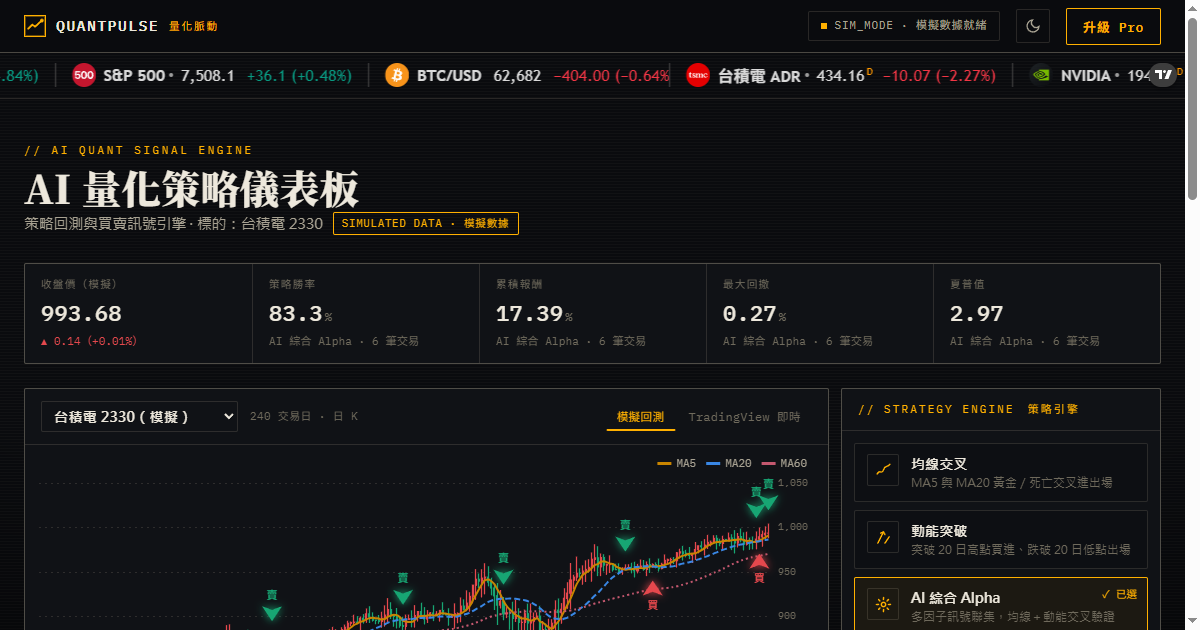
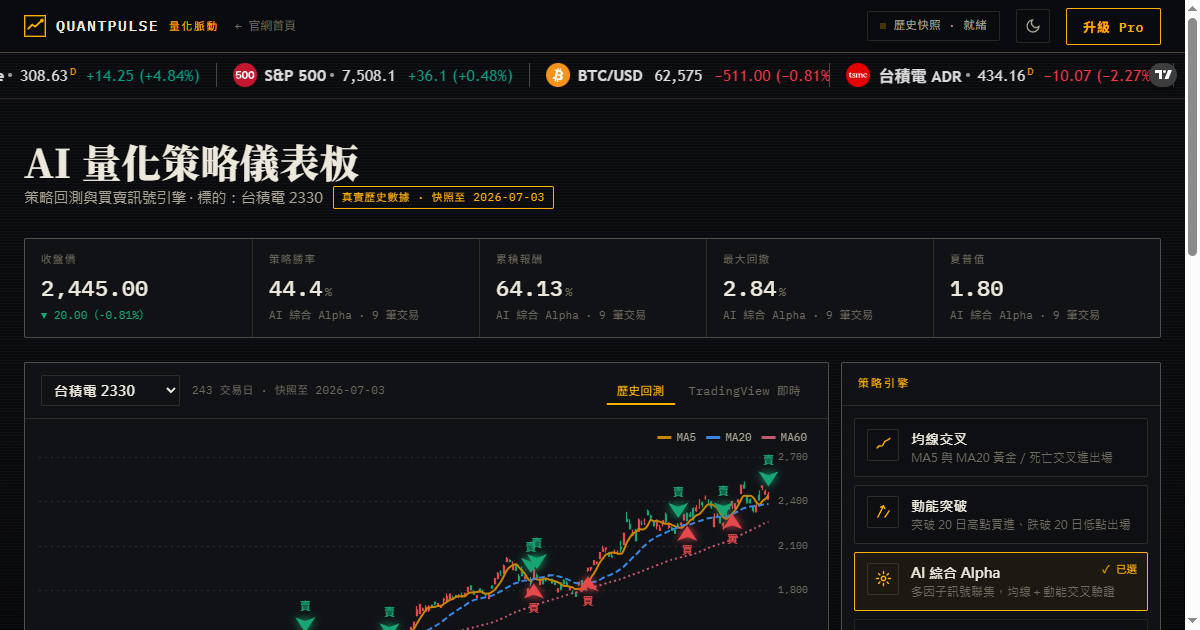
feat: 真實歷史數據——Yahoo Finance 快照管線取代模擬行情（2330 現價 2445／TAIEX 46780）

diff --git a/app.html b/app.html
@@ -3,8 +3,8 @@
 <head>
 <meta charset="UTF-8">
 <meta name="viewport" content="width=device-width, initial-scale=1.0">
-<title>QuantPulse 量化脈動｜AI 量化策略儀表板（模擬展示）</title>
-<meta name="description" content="AI 量化策略儀表板前端技術展示——K 線圖、AI 買賣訊號、模擬訂閱金流。所有數據皆為模擬，不構成投資建議。">
+<title>QuantPulse 量化脈動｜AI 量化策略儀表板（技術展示）</title>
+<meta name="description" content="AI 量化策略儀表板技術展示——真實歷史 K 線快照、AI 買賣訊號回測、模擬訂閱金流。不構成投資建議。">
 <meta property="og:type" content="website">
 <meta property="og:url" content="https://kjyangdev-hue.github.io/quantpulse-demo/">
 <meta property="og:title" content="QuantPulse 量化脈動｜AI 量化策略儀表板">
@@ -327,7 +327,7 @@ footer{margin-top:var(--space-7);border-top:1px solid var(--border-strong);paddi
     </span>
     <a class="nav-home" href="./">← 官網首頁</a>
     <span class="nav-spacer"></span>
-    <span class="market-badge"><span class="dot"></span>模擬數據 · 就緒</span>
+    <span class="market-badge"><span class="dot"></span><span id="market-badge-text">數據載入中…</span></span>
     <button class="icon-btn" id="btn-theme" title="切換深淺色主題" aria-label="切換深淺色主題">
       <svg width="16" height="16" viewBox="0 0 24 24" fill="none" stroke="currentColor" stroke-width="2" stroke-linecap="round"><path d="M21 12.8A9 9 0 1 1 11.2 3 7 7 0 0 0 21 12.8z"/></svg>
     </button>
@@ -347,14 +347,14 @@ footer{margin-top:var(--space-7);border-top:1px solid var(--border-strong);paddi
     <h1>AI 量化策略儀表板</h1>
     <p class="sub">
       策略回測與買賣訊號引擎 · 標的：台積電 2330
-      <span class="sim-badge">模擬數據</span>
+      <span class="sim-badge" id="data-badge">數據載入中…</span>
     </p>
   </header>
 
   <!-- 統計卡列 -->
   <section class="stats" aria-label="關鍵指標">
     <div class="stat">
-      <div class="label">收盤價（模擬）</div>
+      <div class="label">收盤價</div>
       <div class="value" id="stat-price">--</div>
       <div class="delta" id="stat-price-delta">--</div>
     </div>
@@ -385,13 +385,13 @@ footer{margin-top:var(--space-7);border-top:1px solid var(--border-strong);paddi
     <div class="card chart-card">
       <div class="card-head">
         <select class="symbol-select" id="symbol-select" aria-label="切換標的">
-          <option value="2330">台積電 2330（模擬）</option>
-          <option value="taiex">加權指數 TAIEX（模擬）</option>
+          <option value="2330">台積電 2330</option>
+          <option value="taiex">加權指數 TAIEX</option>
         </select>
-        <span class="card-note">240 交易日 · 日 K</span>
+        <span class="card-note" id="data-note">數據載入中…</span>
         <span class="nav-spacer"></span>
         <div class="chart-tabs" role="tablist" aria-label="圖表切換">
-          <button class="chart-tab selected" data-tab="sim" role="tab" aria-selected="true">模擬回測</button>
+          <button class="chart-tab selected" data-tab="sim" role="tab" aria-selected="true">歷史回測</button>
           <button class="chart-tab" data-tab="tv" role="tab" aria-selected="false">TradingView 即時</button>
         </div>
       </div>
@@ -464,7 +464,7 @@ footer{margin-top:var(--space-7);border-top:1px solid var(--border-strong);paddi
           </table>
         </div>
         <div class="empty-state" id="signal-empty">
-          尚未執行分析——點擊「啟動 AI 策略分析」，AI 將掃描 240 個交易日的模擬行情
+          尚未執行分析——點擊「啟動 AI 策略分析」，AI 將掃描近一年的歷史行情
         </div>
       </div>
       <div class="pane" id="pane-trades" hidden>
@@ -509,9 +509,9 @@ footer{margin-top:var(--space-7);border-top:1px solid var(--border-strong);paddi
 <footer>
   <div class="wrap">
     <p class="disclaimer">
-      <b>模擬展示聲明：</b>本頁面為前端技術展示作品。K 線行情、AI 訊號與回測績效皆由固定種子（2330：seed 69／TAIEX：seed 99）演算法產生之<b>模擬數據</b>；
-      「Pro 訂閱」為模擬結帳流程，<b>不會進行任何實際交易或請款</b>。頂部跑馬燈、「TradingView 即時」圖表分頁與側欄技術面儀表為
-      TradingView 第三方元件（<b>真實市場數據</b>，非模擬）。本頁所有內容不構成投資建議。
+      <b>資料與展示聲明：</b>本頁面為前端技術展示作品。K 線行情為 <b>Yahoo Finance 歷史數據快照</b>（截至日期見圖表卡標示，非即時報價；
+      資料載入失敗時以固定種子模擬數據備援並明確標示）。AI 訊號與回測績效為演算法示範，<b>不構成投資建議</b>；
+      「Pro 訂閱」為模擬結帳流程，<b>不會進行任何實際交易或請款</b>。跑馬燈、「TradingView 即時」分頁與技術面儀表為 TradingView 第三方即時元件。
     </p>
     <p class="foot-meta">QUANTPULSE DEMO · BUILT WITH AI-ASSISTED WORKFLOW · ECHARTS 5 / VANILLA JS · 2026</p>
   </div>
@@ -521,17 +521,48 @@ footer{margin-top:var(--space-7);border-top:1px solid var(--border-strong);paddi
 <script src="https://cdn.jsdelivr.net/npm/echarts@5.5.0/dist/echarts.min.js"></script>
 <script>
 'use strict';
-/* ============ 資料初始化（可切換標的） ============ */
-const DAYS = 240;
+/* ============ 資料初始化：真實歷史快照（Yahoo Finance），離線以模擬備援 ============ */
 const SYMBOLS = {
-  '2330': { label: '台積電 2330（模擬）', seed: 69, start: 780 },
-  'taiex': { label: '加權指數 TAIEX（模擬）', seed: 99, start: 20000 },
+  '2330': { label: '台積電 2330', file: 'data/2330.json', fallbackSeed: 69, fallbackStart: 1920 },
+  'taiex': { label: '加權指數 TAIEX', file: 'data/taiex.json', fallbackSeed: 99, fallbackStart: 33000 },
 };
-let candles = QP.generateCandles(SYMBOLS['2330'].seed, DAYS, SYMBOLS['2330'].start);
+let candles = null;
+let dataMeta = null;
+const DATA_CACHE = {};
+
+async function loadSymbolData(key) {
+  if (DATA_CACHE[key]) return DATA_CACHE[key];
+  const cfg = SYMBOLS[key];
+  try {
+    const res = await fetch(cfg.file);
+    if (!res.ok) throw new Error(`HTTP ${res.status}`);
+    const json = await res.json();
+    DATA_CACHE[key] = { candles: json.candles, asOf: json.asOf, simulated: false };
+  } catch (err) {
+    DATA_CACHE[key] = { candles: QP.generateCandles(cfg.fallbackSeed, 240, cfg.fallbackStart), asOf: null, simulated: true };
+  }
+  return DATA_CACHE[key];
+}
+
+/* 套用已載入的標的資料並更新所有資料標示 */
+function applySymbol(key) {
+  const d = DATA_CACHE[key];
+  candles = d.candles;
+  dataMeta = d;
+  renderChart();
+  updatePriceStat();
+  document.getElementById('data-note').textContent = d.simulated
+    ? `${candles.length} 交易日 · 模擬備援數據`
+    : `${candles.length} 交易日 · 快照至 ${d.asOf}`;
+  document.getElementById('market-badge-text').textContent = d.simulated ? '模擬備援 · 就緒' : '歷史快照 · 就緒';
+  document.getElementById('data-badge').textContent = d.simulated ? '模擬備援數據' : `真實歷史數據 · 快照至 ${d.asOf}`;
+  document.getElementById('chart-main').setAttribute('aria-label', `${SYMBOLS[key].label} 日 K 線圖，含 MA5、MA20、MA60 均線與成交量`);
+}
 const fmt = (n) => n.toLocaleString('zh-Hant-TW', { minimumFractionDigits: 2, maximumFractionDigits: 2 });
 
 /* 收盤價統計卡 */
 function updatePriceStat() {
+  if (!candles) return;
   const last = candles[candles.length - 1], prev = candles[candles.length - 2];
   const chg = last.close - prev.close, pct = (chg / prev.close) * 100;
   document.getElementById('stat-price').textContent = fmt(last.close);
@@ -540,7 +571,6 @@ function updatePriceStat() {
   d.classList.remove('up', 'down');
   d.classList.add(chg >= 0 ? 'up' : 'down');
 }
-updatePriceStat();
 
 /* ============ 主題 ============ */
 const root = document.documentElement;
@@ -631,7 +661,7 @@ function baseOption() {
       {
         scale: true, gridIndex: 1, position: 'right', splitNumber: 2,
         axisLine: { show: false }, axisTick: { show: false },
-        axisLabel: { color: t.ink3, fontSize: 9, fontFamily: 'IBM Plex Mono', formatter: (v) => (v / 1000).toFixed(0) + 'K' },
+        axisLabel: { color: t.ink3, fontSize: 9, fontFamily: 'IBM Plex Mono', formatter: (v) => (v >= 1e6 ? (v / 1e6).toFixed(0) + 'M' : (v / 1000).toFixed(0) + 'K') },
         splitLine: { show: false },
       },
     ],
@@ -650,6 +680,7 @@ function baseOption() {
   };
 }
 function renderChart() {
+  if (!candles) return;
   const el = document.getElementById('chart-main');
   if (typeof echarts === 'undefined') {
     el.innerHTML = '<p style="padding:40px;text-align:center;color:var(--ink-3)">圖表資源載入失敗，請重新整理頁面</p>';
@@ -897,7 +928,7 @@ function runAiScan() {
   const overlay = document.getElementById('scan-overlay');
   btn.disabled = true;
   btn.classList.add('loading');
-  btn.querySelector('.btn-label').textContent = 'AI 掃描模擬行情中…';
+  btn.querySelector('.btn-label').textContent = 'AI 掃描歷史行情中…';
   overlay.classList.add('active');
 
   setTimeout(() => {
@@ -1133,15 +1164,19 @@ document.getElementById('btn-export-csv').addEventListener('click', () => {
   URL.revokeObjectURL(a.href);
 });
 
-document.getElementById('symbol-select').addEventListener('change', (e) => {
-  const cfg = SYMBOLS[e.target.value];
-  candles = QP.generateCandles(cfg.seed, DAYS, cfg.start);
+document.getElementById('symbol-select').addEventListener('change', async (e) => {
+  const key = e.target.value;
+  await loadSymbolData(key);
   resetAnalysis();
-  renderChart();
-  updatePriceStat();
-  document.getElementById('chart-main').setAttribute('aria-label', `${cfg.label} 日 K 線圖，含 MA5、MA20、MA60 均線與成交量`);
+  applySymbol(key);
   if (window.showChartTab) window.showChartTab('sim');
 });
+
+/* 初始載入 */
+(async function initData() {
+  await loadSymbolData('2330');
+  applySymbol('2330');
+})();
 
 
 </script>

diff --git a/index.html b/index.html
@@ -3,8 +3,8 @@
 <head>
 <meta charset="UTF-8">
 <meta name="viewport" content="width=device-width, initial-scale=1.0">
-<title>QuantPulse 量化脈動｜AI 量化策略平台（模擬展示）</title>
-<meta name="description" content="QuantPulse——AI 量化訊號引擎、多策略回測、TradingView 即時整合與訂閱金流的 B2B SaaS 展示。所有回測數據皆為模擬，不構成投資建議。">
+<title>QuantPulse 量化脈動｜AI 量化策略平台（技術展示）</title>
+<meta name="description" content="QuantPulse——AI 量化訊號引擎、真實歷史數據回測、TradingView 即時整合與訂閱金流的 B2B SaaS 技術展示。不構成投資建議。">
 <meta property="og:type" content="website">
 <meta property="og:url" content="https://kjyangdev-hue.github.io/quantpulse-demo/">
 <meta property="og:title" content="QuantPulse 量化脈動｜AI 量化策略平台">
@@ -240,7 +240,7 @@ footer{margin-top:var(--space-8);border-top:1px solid var(--border-strong);paddi
   <header class="hero">
     <div class="wrap hero-grid">
       <div class="reveal in">
-        <span class="sim-badge">技術展示 · 模擬數據</span>
+        <span class="sim-badge" id="data-badge">技術展示 · 數據載入中</span>
         <h1>AI 量化訊號引擎，<br>把交易紀律變成<em>系統</em></h1>
         <p class="lede">QuantPulse 將多策略回測、AI 買賣訊號與 TradingView 即時行情整合進單一儀表板，並內建訂閱金流與電子發票流程——從決策到收款，一條龍展示。</p>
         <div class="hero-cta">
@@ -250,11 +250,11 @@ footer{margin-top:var(--space-8);border-top:1px solid var(--border-strong);paddi
       </div>
       <div class="hero-card reveal in" style="transition-delay:.12s">
         <div class="hc-head">
-          <span class="hc-title">台積電 2330（模擬）</span>
+          <span class="hc-title">台積電 2330</span>
           <span class="nav-spacer"></span>
-          <span class="hc-note">240 交易日回測</span>
+          <span class="hc-note" id="hc-note">近一年回測</span>
         </div>
-        <svg class="spark" id="hero-spark" viewBox="0 0 640 220" role="img" aria-label="台積電 2330 模擬收盤價走勢"></svg>
+        <svg class="spark" id="hero-spark" viewBox="0 0 640 220" role="img" aria-label="台積電 2330 近一年收盤價走勢"></svg>
         <div class="hc-stats">
           <div class="hc-stat"><div class="l">累積報酬</div><div class="v pos" data-perf="totalReturn">--</div></div>
           <div class="hc-stat"><div class="l">勝率</div><div class="v" data-perf="winRate">--</div></div>
@@ -271,7 +271,7 @@ footer{margin-top:var(--space-8);border-top:1px solid var(--border-strong);paddi
     <div class="wrap">
       <div class="sec-head reveal">
         <h2>回測績效，算給你看</h2>
-        <p>以下數字由頁面即時執行「AI 綜合 Alpha」策略對 240 個交易日模擬行情回測而得——與 DEMO 中你按下分析按鈕看到的結果完全一致，非行銷話術。</p>
+        <p>以下數字由頁面即時執行「AI 綜合 Alpha」策略，對台積電 2330 <b>近一年真實歷史行情</b>回測而得——與 DEMO 中你按下分析按鈕看到的結果完全一致，非行銷話術。</p>
       </div>
       <div class="perf-band reveal">
         <div class="perf-cell"><div class="l">累積報酬</div><div class="v pos" data-perf="totalReturnPct">--</div></div>
@@ -279,7 +279,7 @@ footer{margin-top:var(--space-8);border-top:1px solid var(--border-strong);paddi
         <div class="perf-cell"><div class="l">最大回撤</div><div class="v" data-perf="maxDrawdownPct">--</div></div>
         <div class="perf-cell"><div class="l">夏普值</div><div class="v" data-perf="sharpe2">--</div></div>
       </div>
-      <p class="perf-note reveal">模擬回測聲明：行情由固定種子演算法產生（seed 69），不代表任何真實市場或未來績效。</p>
+      <p class="perf-note reveal"><span id="perf-asof">資料載入中；</span>歷史回測不代表未來績效，本頁內容不構成投資建議。</p>
     </div>
   </section>
 
@@ -347,7 +347,7 @@ footer{margin-top:var(--space-8);border-top:1px solid var(--border-strong);paddi
           <div class="p-price">NT$ 0</div>
           <p class="p-desc">先體驗，不用卡號</p>
           <ul>
-            <li>模擬行情 K 線與均線圖表</li>
+            <li>真實歷史 K 線與均線圖表</li>
             <li>均線交叉／動能突破策略</li>
             <li>TradingView 即時技術面</li>
           </ul>
@@ -395,7 +395,7 @@ footer{margin-top:var(--space-8);border-top:1px solid var(--border-strong);paddi
         </details>
         <details>
           <summary>圖表數據是真實行情嗎？</summary>
-          <p class="a">K 線與回測數據由固定種子演算法產生，屬於模擬行情；TradingView 分頁、技術面儀表盤與跑馬燈則是真實市場數據（第三方元件）。頁面上皆有明確標示。</p>
+          <p class="a">是。K 線與回測使用 Yahoo Finance 的真實歷史數據快照（由 repo 內的資料管線腳本產生，截至日期標示於頁面上，非即時報價）；TradingView 分頁、技術面儀表盤與跑馬燈為第三方即時數據。僅「訂閱結帳」為模擬流程。</p>
         </details>
         <details>
           <summary>Pro 策略要怎麼解鎖？</summary>
@@ -433,8 +433,8 @@ footer{margin-top:var(--space-8);border-top:1px solid var(--border-strong);paddi
       </div>
     </div>
     <p class="disclaimer">
-      <b>模擬展示聲明：</b>本網站為前端技術展示作品。K 線行情、AI 訊號與回測績效皆由固定種子演算法產生之<b>模擬數據</b>；
-      「訂閱」為模擬結帳流程，<b>不會進行任何實際交易或請款</b>。TradingView 相關元件為第三方即時數據。本站所有內容不構成投資建議。
+      <b>資料與展示聲明：</b>本網站為前端技術展示作品。K 線行情為 <b>Yahoo Finance 歷史數據快照</b>（非即時報價，離線時以模擬數據備援並標示）；
+      AI 訊號與回測為演算法示範，<b>不構成投資建議</b>。「訂閱」為模擬結帳流程，<b>不會進行任何實際交易或請款</b>。TradingView 相關元件為第三方即時數據。
     </p>
     <p class="foot-meta">QUANTPULSE DEMO · BUILT WITH AI-ASSISTED WORKFLOW · ECHARTS 5 / VANILLA JS · 2026</p>
   </div>
@@ -457,20 +457,43 @@ document.getElementById('btn-theme').addEventListener('click', () => {
   drawSpark();
 });
 
-/* ============ 真實計算的回測數字（與 DEMO 同源） ============ */
-const candles = QP.generateCandles(69, 240, 780);
-const perf = QP.calcPerformance(candles, QP.generateSignals(candles, 'ai'));
+/* ============ 真實歷史數據＋即時回測計算（與 DEMO 同源；離線以模擬備援） ============ */
+let candles = null;
 const fill = (key, text) => document.querySelectorAll(`[data-perf="${key}"]`).forEach((el) => { el.textContent = text; });
-fill('totalReturn', `+${perf.totalReturn.toFixed(1)}%`);
-fill('winRate', `${perf.winRate.toFixed(0)}%`);
-fill('sharpe', perf.sharpe.toFixed(2));
-fill('totalReturnPct', `+${perf.totalReturn.toFixed(2)}%`);
-fill('winRatePct', `${perf.winRate.toFixed(1)}%`);
-fill('maxDrawdownPct', `${perf.maxDrawdown.toFixed(2)}%`);
-fill('sharpe2', perf.sharpe.toFixed(2));
+
+(async function initData() {
+  let asOf = null;
+  let simulated = false;
+  try {
+    const res = await fetch('data/2330.json');
+    if (!res.ok) throw new Error(`HTTP ${res.status}`);
+    const json = await res.json();
+    candles = json.candles;
+    asOf = json.asOf;
+  } catch (err) {
+    candles = QP.generateCandles(69, 240, 1920);
+    simulated = true;
+  }
+  const perf = QP.calcPerformance(candles, QP.generateSignals(candles, 'ai'));
+  const sign = (v) => `${v >= 0 ? '+' : ''}${v.toFixed(2)}%`;
+  fill('totalReturn', sign(perf.totalReturn));
+  fill('winRate', `${perf.winRate.toFixed(0)}%`);
+  fill('sharpe', perf.sharpe.toFixed(2));
+  fill('totalReturnPct', sign(perf.totalReturn));
+  fill('winRatePct', `${perf.winRate.toFixed(1)}%`);
+  fill('maxDrawdownPct', `${perf.maxDrawdown.toFixed(2)}%`);
+  fill('sharpe2', perf.sharpe.toFixed(2));
+  document.getElementById('hc-note').textContent = simulated ? '近一年 · 模擬備援' : `近一年 · 快照至 ${asOf}`;
+  document.getElementById('data-badge').textContent = simulated ? '技術展示 · 模擬備援數據' : '技術展示 · 真實歷史數據';
+  document.getElementById('perf-asof').textContent = simulated
+    ? '資料載入失敗，此為固定種子模擬備援數據；'
+    : `資料來源：Yahoo Finance 歷史快照（截至 ${asOf}，非即時報價）；`;
+  drawSpark();
+})();
 
 /* ============ Hero 走勢圖（SVG，由模擬收盤價繪製） ============ */
 function drawSpark() {
+  if (!candles) return;
   const svg = document.getElementById('hero-spark');
   const closes = candles.map((c) => c.close);
   const W = 640, H = 220, PAD = 14;
@@ -486,7 +509,6 @@ function drawSpark() {
     <polyline points="${pts.join(' ')}" fill="none" stroke="${brand}" stroke-width="2" stroke-linejoin="round"/>
     <circle cx="${x(closes.length - 1)}" cy="${y(closes[closes.length - 1])}" r="3.5" fill="${brand}"/>`;
 }
-drawSpark();
 
 /* ============ 滾動進場 ============ */
 const io = new IntersectionObserver((entries) => {

diff --git a/README.md b/README.md
@@ -1,6 +1,12 @@
 # QuantPulse 量化脈動 — AI 量化策略儀表板（前端展示）
 
-> **模擬展示聲明**：本專案為前端技術展示作品。所有 K 線行情、AI 訊號與回測績效皆由固定種子（seed 69）演算法產生之**模擬數據**；「Pro 訂閱」為模擬結帳流程，不會進行任何實際交易或請款。本專案所有內容不構成投資建議。
+> **資料與展示聲明**：本專案為前端技術展示作品。K 線行情為 **Yahoo Finance 真實歷史數據快照**（`node scripts/fetch-data.mjs` 產生，截至日期標示於頁面；離線時以固定種子模擬數據備援）。AI 訊號與回測為演算法示範；「Pro 訂閱」為模擬結帳流程，不會進行任何實際交易或請款。本專案所有內容不構成投資建議。
+
+## 資料管線
+
+```bash
+node scripts/fetch-data.mjs   # 更新 data/2330.json、data/taiex.json 快照
+```
 
 ## 結構
 